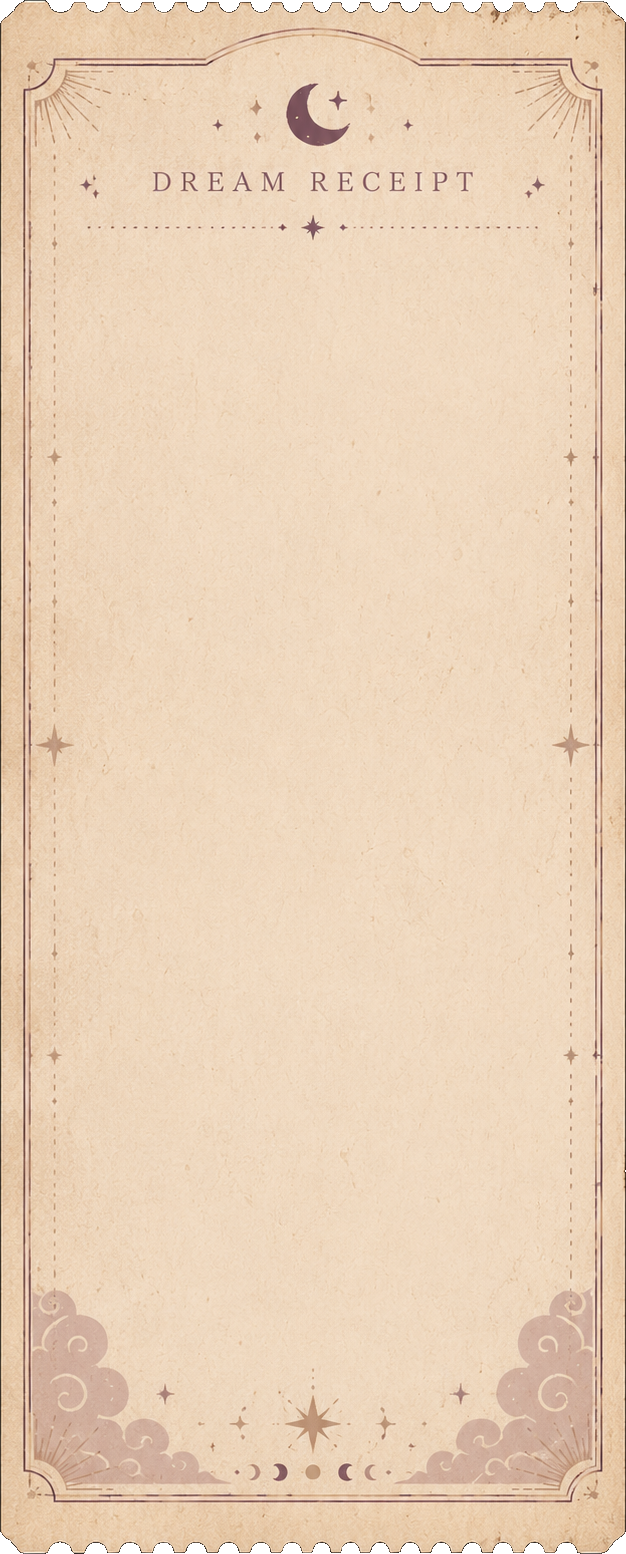
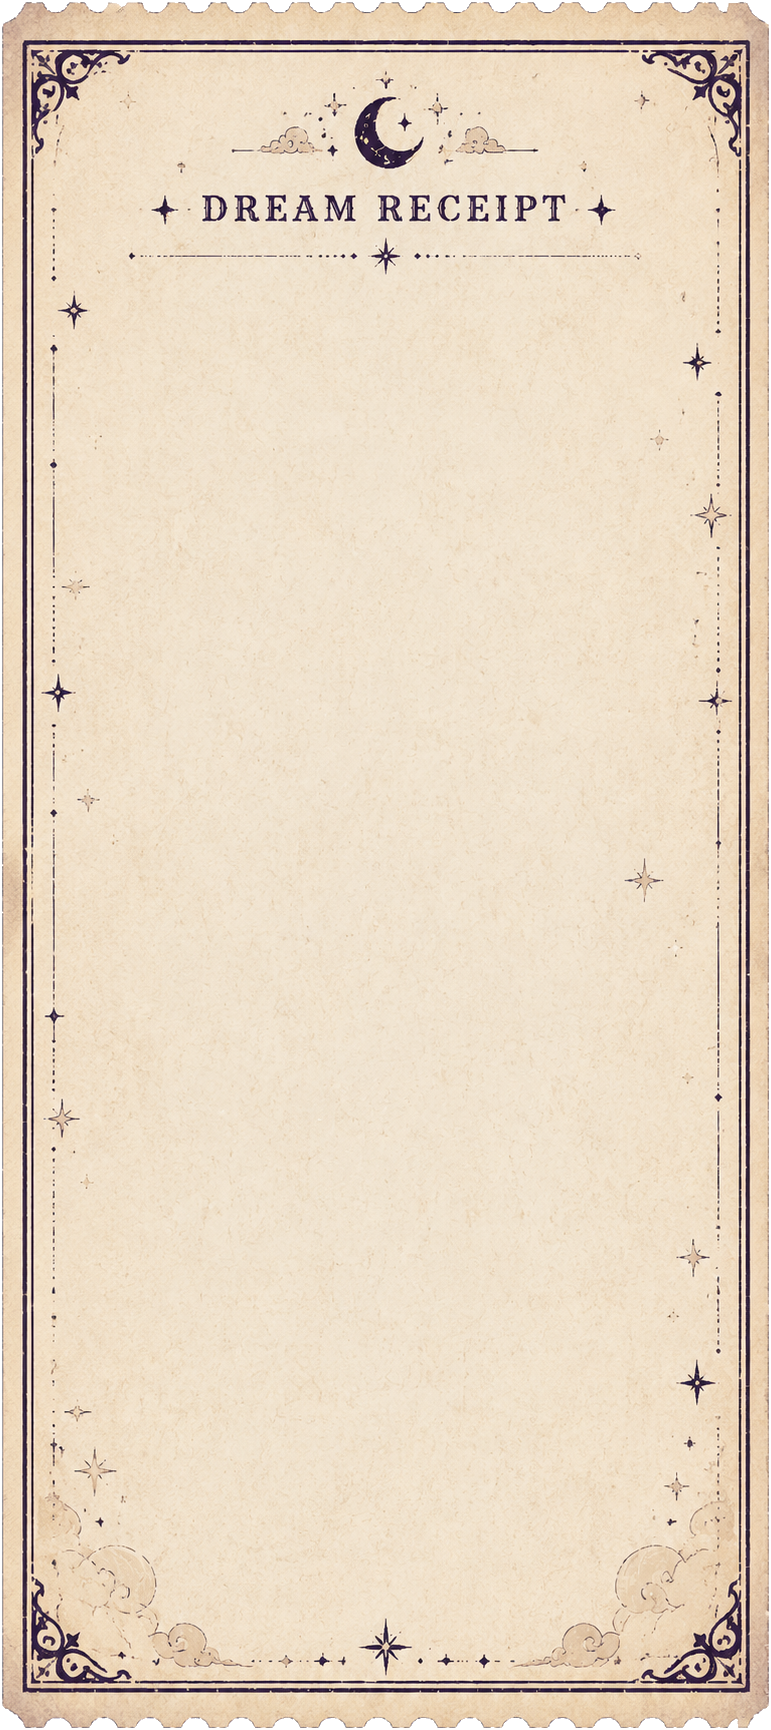
feat(frontend): align calendar assets and layout

diff --git a/frontend/src/app/archive/page.tsx b/frontend/src/app/archive/page.tsx
@@ -1,32 +1,44 @@
+import Image from "next/image";
+
 import { AppShell } from "@/components/app-shell";
 import { DreamArchiveList } from "@/components/dream-archive-list";
-import { cn, ui } from "@/lib/styles";
+import { getMonthGrid } from "@/lib/calendar";
 
-const days = Array.from({ length: 35 }, (_, index) => index + 1);
+const calendarCells = getMonthGrid(2026, 5);
 const dreamDays = new Set([2, 7, 12, 15, 20, 24, 29, 31]);
 
 export default function ArchivePage() {
   return (
     <AppShell background="/manyang/background-default.png" title="꿈 기록" subtitle="내가 꾼 꿈들을 돌아보는 시간" backHref="/">
       <div className="mt-8 space-y-4 pb-5">
-        <section className={cn(ui.panel, "p-4")}>
-          <div className="mb-4 text-center text-xl text-[#ffd98a]">2026년 5월</div>
-          <div className="grid grid-cols-7 gap-2 text-center text-sm text-[#f5c77f]">
-            {["일", "월", "화", "수", "목", "금", "토"].map((day) => (
-              <span key={day}>{day}</span>
-            ))}
-            {days.map((day) => (
-              <span
-                key={day}
-                className={[
-                  "grid aspect-square place-items-center rounded-full",
-                  dreamDays.has(day)
-                    ? "bg-[#4a2069] text-[#ffd98a] shadow-[0_0_18px_rgba(199,117,255,0.5)]"
-                    : "text-[#d6ad78]/80",
-                  day === 24 ? "ring-2 ring-[#c775ff]" : "",
-                ].join(" ")}
-              >
-                {day}
+        <section className="relative mx-auto aspect-[962/1452] w-full max-w-[382px]">
+          <Image
+            src="/manyang/calendar.png"
+            alt=""
+            fill
+            sizes="382px"
+            unoptimized
+            className="object-contain drop-shadow-[0_18px_48px_rgba(0,0,0,0.36)]"
+          />
+          <h2 className="absolute inset-x-[27%] top-[15.7%] text-center text-[15px] font-semibold text-[#ffd98a]">
+            2026년 5월
+          </h2>
+          <div className="absolute left-[8.25%] right-[8.25%] top-[28.55%] grid h-[56.05%] grid-cols-7 grid-rows-6 text-center text-[11px] text-[#f5c77f]">
+            {calendarCells.map((day, index) => (
+              <span key={`${day ?? "blank"}-${index}`} className="relative grid place-items-center">
+                {day ? (
+                  <span
+                    className={[
+                      "grid h-6 w-6 place-items-center rounded-full",
+                      dreamDays.has(day)
+                        ? "bg-[#4a2069] text-[#ffd98a] shadow-[0_0_18px_rgba(199,117,255,0.55)]"
+                        : "text-[#d6ad78]/82",
+                      day === 24 ? "ring-2 ring-[#c775ff]" : "",
+                    ].join(" ")}
+                  >
+                    {day}
+                  </span>
+                ) : null}
               </span>
             ))}
           </div>

diff --git a/frontend/src/components/bottom-nav.tsx b/frontend/src/components/bottom-nav.tsx
@@ -24,20 +24,20 @@ export function BottomNav() {
           const isActive = active?.key === item.key;
 
           return (
-          <Link
-            key={item.key}
-            href={item.href}
-            className={[
-              "relative rounded-[1.5rem] transition",
-              "focus:outline-none focus:ring-2 focus:ring-[#d799ff]",
-            ].join(" ")}
-            aria-current={isActive ? "page" : undefined}
-          >
-            {isActive ? (
-              <span className="absolute inset-x-4 top-[18px] h-12 rounded-full bg-[#c775ff]/14 blur-md" />
-            ) : null}
-            <span className="sr-only">{item.label}</span>
-          </Link>
+            <Link
+              key={item.key}
+              href={item.href}
+              className={[
+                "relative rounded-[1.5rem] transition",
+                "focus:outline-none focus:ring-2 focus:ring-[#d799ff]",
+              ].join(" ")}
+              aria-current={isActive ? "page" : undefined}
+            >
+              {isActive ? (
+                <span className="absolute inset-x-4 top-[18px] h-12 rounded-full bg-[#c775ff]/14 blur-md" />
+              ) : null}
+              <span className="sr-only">{item.label}</span>
+            </Link>
           );
         })}
       </div>

diff --git a/frontend/src/app/page.tsx b/frontend/src/app/page.tsx
@@ -22,15 +22,15 @@ export default function TodayPage() {
         <div className="pointer-events-none absolute left-[4.1rem] right-[4.1rem] top-0 z-10 py-1 text-center">
           <div className="absolute inset-x-[-2rem] -top-5 bottom-[-0.5rem] bg-[radial-gradient(ellipse_at_center,rgba(0,0,0,0.80)_0%,rgba(0,0,0,0.54)_42%,rgba(0,0,0,0.17)_68%,transparent_82%)]" />
           <div className="relative">
-          <p className="text-[11px] tracking-[0.43em] text-[#f4b65f]">
-            MANYANG DREAM
-          </p>
-          <h1 className={`mt-1.5 text-[26px] font-semibold leading-tight text-[#ffd98a] ${ui.textGlow}`}>
-            마냥 꿈해몽
-          </h1>
-          <p className="mx-auto mt-1.5 max-w-[320px] text-[14px] leading-5 text-[#fff3d7]">
-            사라진 꿈을 고양이가 읽어드립니다
-          </p>
+            <p className="text-[11px] tracking-[0.43em] text-[#f4b65f]">
+              MANYANG DREAM
+            </p>
+            <h1 className={`mt-1.5 text-[26px] font-semibold leading-tight text-[#ffd98a] ${ui.textGlow}`}>
+              마냥 꿈해몽
+            </h1>
+            <p className="mx-auto mt-1.5 max-w-[320px] text-[14px] leading-5 text-[#fff3d7]">
+              사라진 꿈을 고양이가 읽어드립니다
+            </p>
           </div>
         </div>
 
@@ -39,10 +39,10 @@ export default function TodayPage() {
         </button>
       </header>
 
-      <div className="mt-auto space-y-3 pb-5">
+      <div className="mt-auto space-y-1.5 pb-1">
         <Link
           href="/write"
-          className="block transition hover:brightness-110 focus:outline-none focus:ring-2 focus:ring-[#f7d58b]"
+          className="mx-auto block w-[86%] transition hover:brightness-110 focus:outline-none focus:ring-2 focus:ring-[#f7d58b]"
         >
           <Image
             src="/manyang/dreammemory-button-1.png"
@@ -56,7 +56,7 @@ export default function TodayPage() {
         </Link>
         <Link
           href="/morning"
-          className="block transition hover:brightness-110 focus:outline-none focus:ring-2 focus:ring-[#f7d58b]"
+          className="mx-auto block w-[68%] transition hover:brightness-110 focus:outline-none focus:ring-2 focus:ring-[#f7d58b]"
         >
           <Image
             src="/manyang/dreammemory-button-2.png"

diff --git a/frontend/src/lib/calendar.ts b/frontend/src/lib/calendar.ts
@@ -1,0 +1,19 @@
+export function getMonthGrid(year: number, month: number) {
+  const firstDay = new Date(Date.UTC(year, month - 1, 1)).getUTCDay();
+  const daysInMonth = new Date(Date.UTC(year, month, 0)).getUTCDate();
+  const cells: Array<number | null> = [];
+
+  for (let index = 0; index < firstDay; index += 1) {
+    cells.push(null);
+  }
+
+  for (let day = 1; day <= daysInMonth; day += 1) {
+    cells.push(day);
+  }
+
+  while (cells.length < 42) {
+    cells.push(null);
+  }
+
+  return cells;
+}

diff --git a/frontend/src/lib/calendar.test.ts b/frontend/src/lib/calendar.test.ts
@@ -1,0 +1,15 @@
+import { describe, expect, it } from "vitest";
+
+import { getMonthGrid } from "./calendar";
+
+describe("calendar grid", () => {
+  it("builds a six-week grid for May 2026 starting on Friday", () => {
+    const grid = getMonthGrid(2026, 5);
+
+    expect(grid).toHaveLength(42);
+    expect(grid.slice(0, 5)).toEqual([null, null, null, null, null]);
+    expect(grid[5]).toBe(1);
+    expect(grid[28]).toBe(24);
+    expect(grid[35]).toBe(31);
+  });
+});

diff --git a/frontend/src/components/app-shell.tsx b/frontend/src/components/app-shell.tsx
@@ -48,7 +48,7 @@ export function AppShell({
         <div className={scrimClassName} />
         <div className={bottomScrimClassName} />
 
-        <div className="relative z-10 flex min-h-screen flex-col px-6 pb-6 pt-8">
+        <div className="relative z-10 flex min-h-screen flex-col px-6 pb-1.5 pt-8">
           {showHeader ? (
             <header className="flex min-h-14 items-center justify-between">
               {backHref ? (